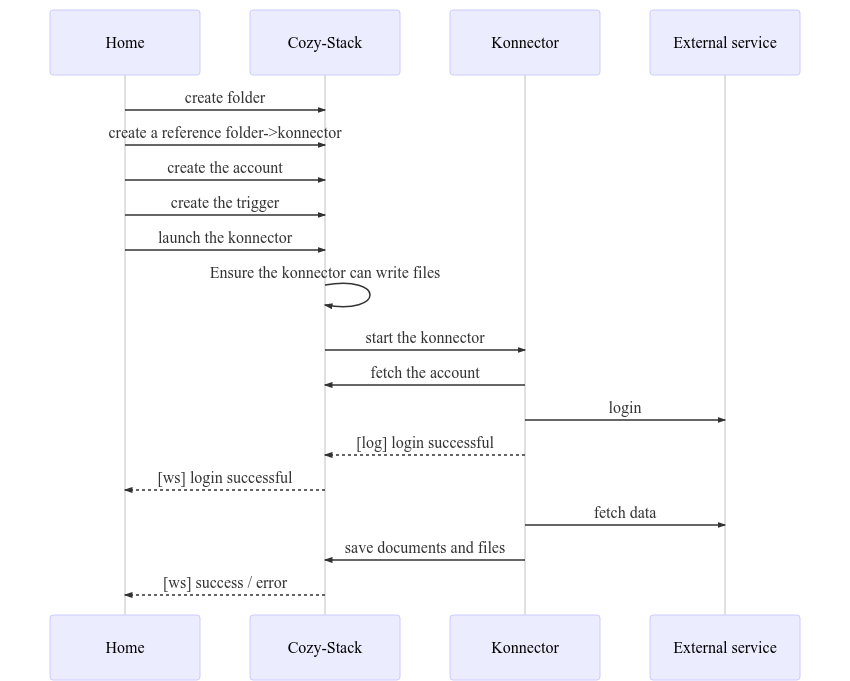
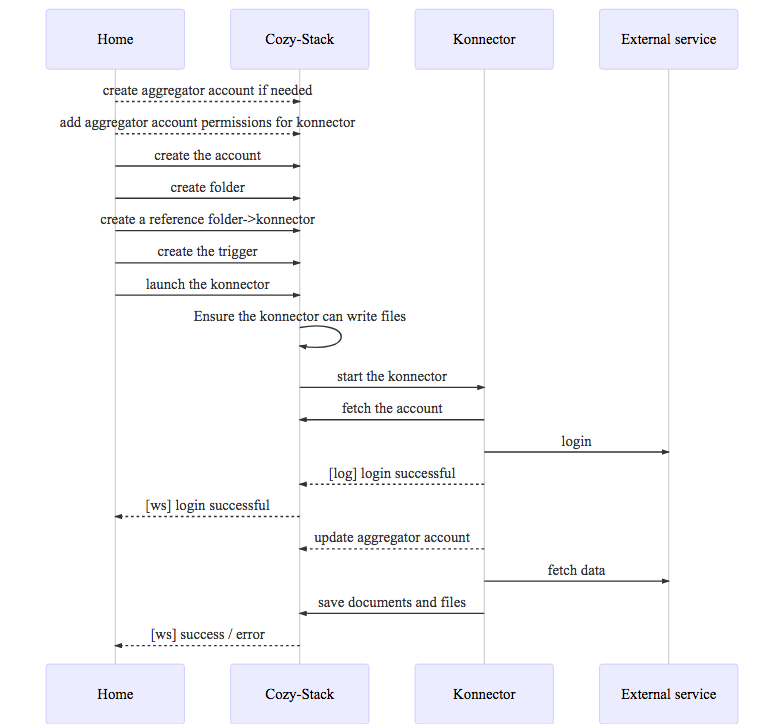
Update konnectors workflow with aggregator informations (#1667)
Following https://github.com/cozy/cozy-stack/pull/1665

![konnector-workflow](https://user-images.githubusercontent.com/776764/50104379-25594480-022a-11e9-9149-e3d141a0a8bc.png)

[...]

#### Aggregator accounts

Some konnectors are based on a aggregator service. An aggregator is declared
in the konnector manifest and specify an `accountId` property. When Cozy-Home
detects this property, it check if an account with this given id exists. If not,
it creates it. Every account created for a konnector based on an aggregator is
then related to this aggregator account. This relationship is called `master`
account.

```json
{
    "auth": {
        "login": "000000000",
        "password": "**********"
    },
    "folderPath": "/Administratif/Bankbank",
    "label": "Bankbank",
    "namePath": "Bankbank",
    "relationships": {
      "master": {
        "_id": "service-aggregator-account",
        "_type": "io.cozy.accounts"
      }
    }
}
```
[...]

diff --git a/docs/konnectors.md b/docs/konnectors.md
@@ -10,26 +10,7 @@ _via_ our [job system](jobs.md) and the [konnector worker](workers.md).
 
 ## The manifest
 
-| Field             | Description                                                                                                     |
-| ----------------- | --------------------------------------------------------------------------------------------------------------- |
-| name              | the name to display on the home                                                                                 |
-| slug              | the default slug (it can be changed at install time)                                                            |
-| editor            | the editor's name to display on the cozy-bar of the app                                                         |
-| type              | the type of the konnector source ("node" is the only supported for now)                                         |
-| icon              | an icon for the home                                                                                            |
-| screenshots       | an array of path to the screenshots of the application                                                          |
-| category          | the category of the application                                                                                 |
-| short_description | a short description of the application                                                                          |
-| long_description  | a long description of the application                                                                           |
-| source            | where the files of the app can be downloaded                                                                    |
-| developer         | `name` and `url` for the developer (`{"name": "Cozy", "url": "https://cozy.io"}`)                               |
-| default_locale    | the locale used for the name and description fields                                                             |
-| locales           | translations of the name and description fields in other locales                                                |
-| langs             | list of languages tags supported by the application                                                             |
-| version           | the current version number                                                                                      |
-| parameters        | any json object that will be passed to the konnector on execution in the `COZY_PARAMETERS` environment variable |
-| license           | [the SPDX license identifier](https://spdx.org/licenses/)                                                       |
-| permissions       | a map of permissions needed by the app (see [here](permissions.md) for more details)                            |
+An exhaustive manifest specification is available in the [Cozy Apps Registry documentation](https://docs.cozy.io/en/cozy-apps-registry/README/#properties-meaning-reference)
 
 ### POST /konnectors/:slug
 

diff --git a/docs/konnectors-workflow.md b/docs/konnectors-workflow.md
@@ -29,6 +29,33 @@ saved in CouchDB, but we will show them as the konnectors will see them):
 
 Accounts are manipulated through the `/data/` API.
 
+#### Aggregator accounts
+
+Some konnectors are based on an aggregator service. An aggregator is declared
+in the konnector manifest and specify an `accountId` property. When Cozy-Home
+detects this property, it checks if an account with this given id exists. If not,
+it creates it. Every account created for a konnector based on an aggregator is
+then related to this aggregator account. This relationship is called `parent`
+account.
+
+```json
+{
+    "auth": {
+        "login": "000000000",
+        "password": "**********"
+    },
+    "folderPath": "/Administratif/Bankbank",
+    "label": "Bankbank",
+    "namePath": "Bankbank",
+    "relationships": {
+      "parent": {
+        "_id": "service-aggregator-account",
+        "_type": "io.cozy.accounts"
+      }
+    }
+}
+```
+
 **Note:** you can read more about the [accounts doctype
 here](https://docs.cozy.io/en/cozy-doctypes/docs/io.cozy.accounts/).
 
